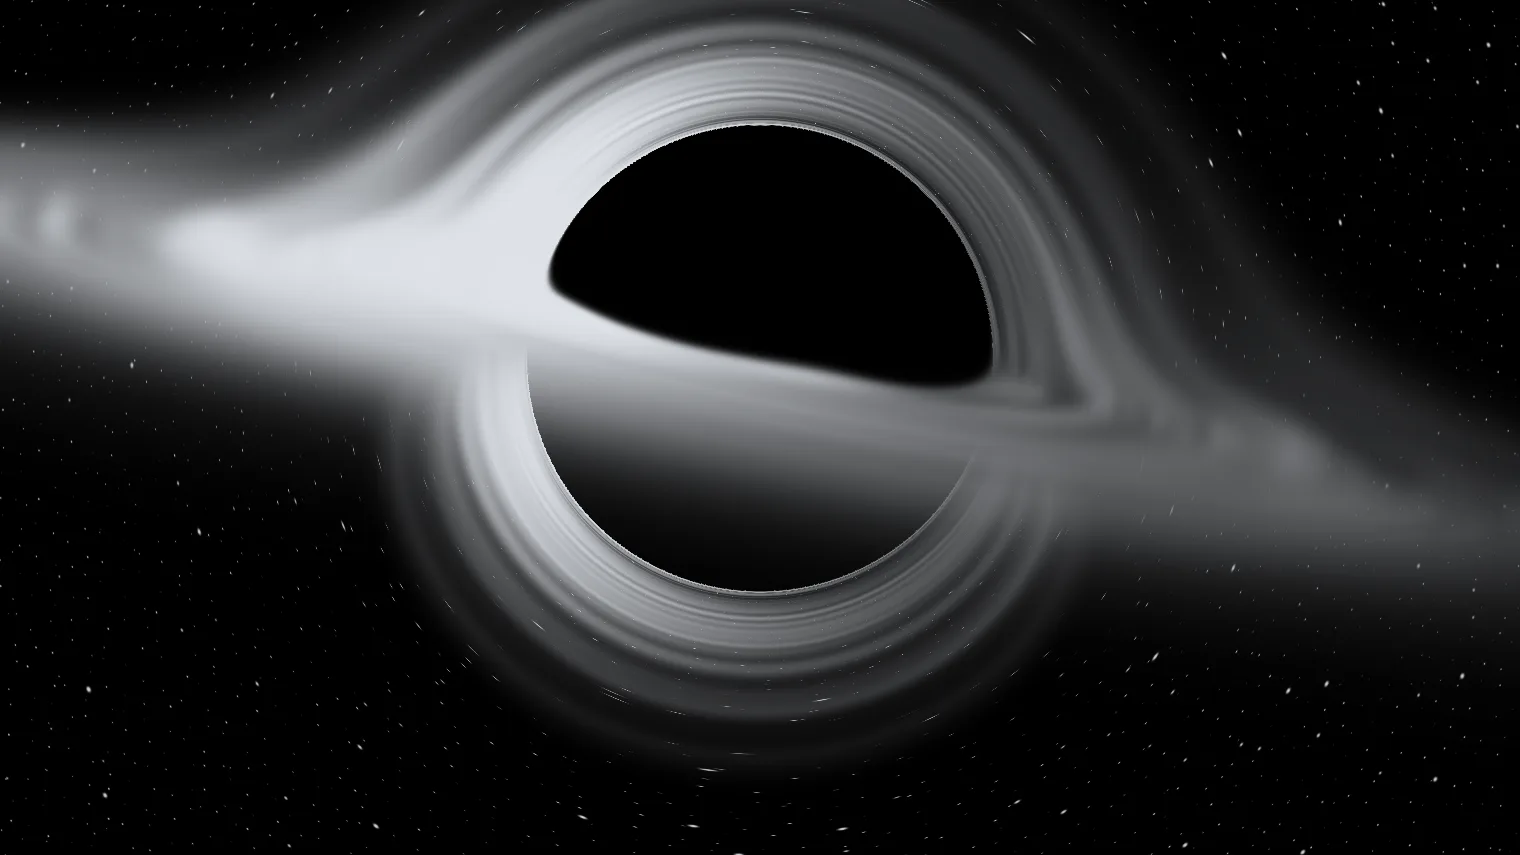
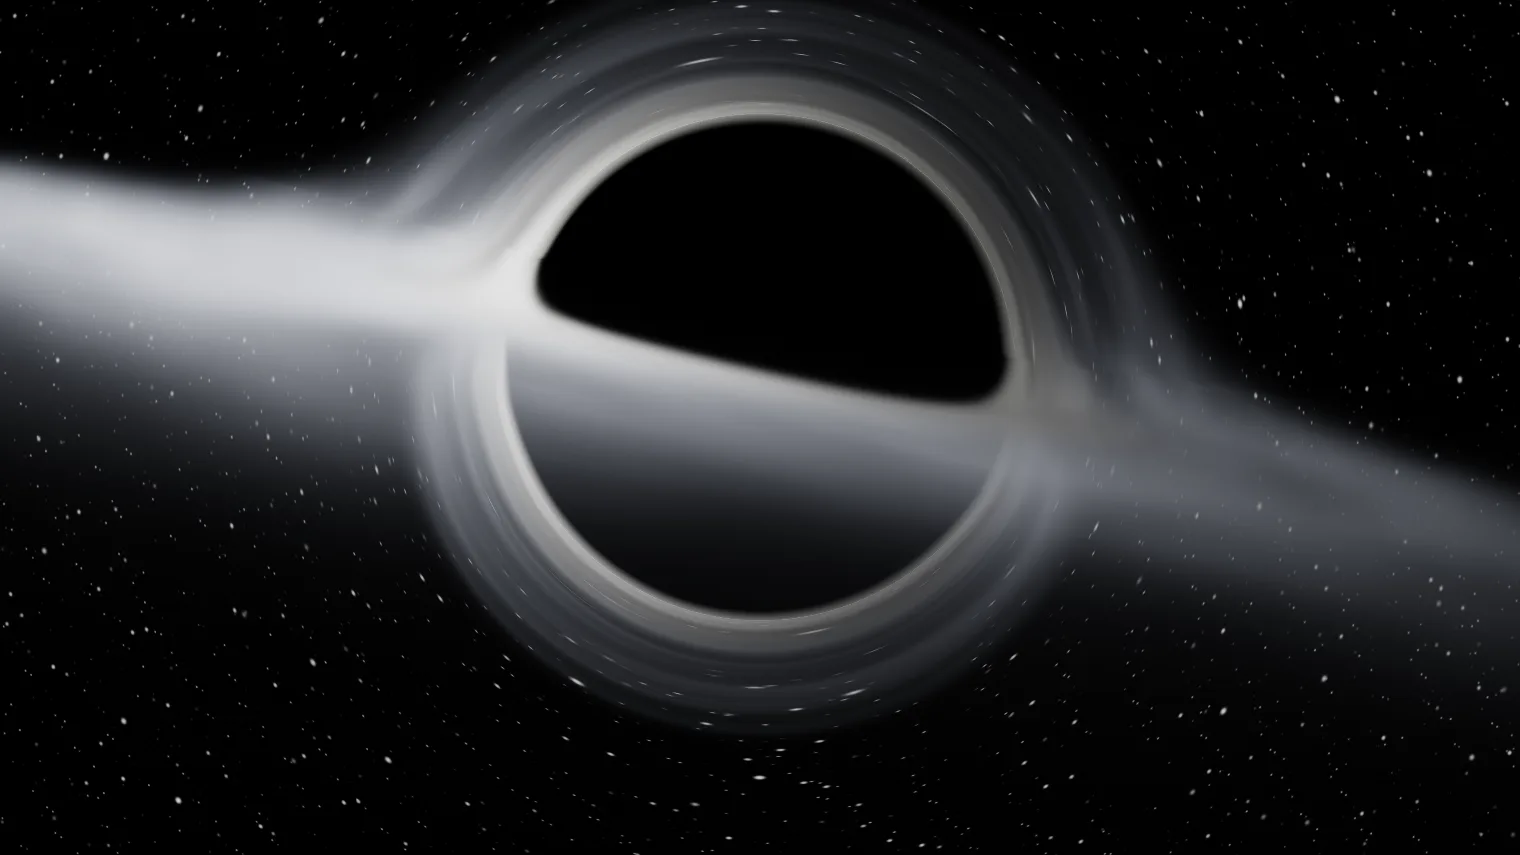
Site: a bigger, softer black hole
The camera sits closer (19 out), so the shadow is bigger. The disk is a
soft, cloudy slab, lit more evenly, with a faint haze, a tight photon
ring and a filmic tone curve. There are more stars, and the camera
sways, rolls and leans toward the cursor. The cursor lens stays.
New still posters to match.

Changed region(s): [[0.0, 0.0, 1.0, 0.8211], [0.4329, 0.8211, 0.5566, 0.8515], [0.2783, 0.6386, 0.3092, 0.7298]]

diff --git a/site/black-hole.js b/site/black-hole.js
@@ -1,61 +1,56 @@
 // The black hole behind the hero, ray traced live. Every pixel's light is bent around the hole (Schwarzschild), so the
 // shadow, the far side of the disk lensed up over the top and down under the bottom, and the brighter side that comes
-// toward you all fall out of the physics. The disk is a thin glowing slab, hot and bright inside, cold and smoky at its
-// rim; its gas streams round in fine lanes, inner ones faster. The camera drifts slowly round and eases toward the
-// cursor. No WebGL: the poster stays.
+// toward you all fall out of the physics. The disk is a thin glowing slab of soft, streaming gas, warm white inside
+// and cooler outside, with a faint haze round it. The camera drifts and leans toward the cursor, and the cursor bends
+// the picture under it. No WebGL: the poster stays.
 (() => {
   const cv = document.getElementById("hole");
   if (!cv) return;
   const gl = cv.getContext("webgl", { antialias: false, alpha: false, depth: false, powerPreference: "high-performance" });
   if (!gl) { cv.parentNode.classList.add("still"); return; }
-  const D = 26;   // the camera's distance, in Schwarzschild radii
   const FS = `
     precision highp float;
-    uniform vec2 uC; uniform float uK, uP, uN, uT; uniform vec3 uCam; uniform vec4 uM;
-    const float D = ${D}., RIN = 1.6, ROUT = 14.5, BC = 2.598;
+    uniform vec2 uC; uniform float uK, uT; uniform vec3 uCam; uniform vec4 uM;
+    float sq(float x){ return x * x; }
+    float hash(vec2 p){ return fract(sin(dot(p, vec2(127.1, 311.7))) * 43758.5453); }
     float hash3(vec3 p){ p = fract(p * .3183099 + .1); p *= 17.; return fract(p.x * p.y * p.z * (p.x + p.y + p.z)); }
     float noise3(vec3 x){ vec3 i = floor(x), f = fract(x); f = f * f * (3. - 2. * f);
       return mix(mix(mix(hash3(i), hash3(i + vec3(1,0,0)), f.x), mix(hash3(i + vec3(0,1,0)), hash3(i + vec3(1,1,0)), f.x), f.y),
                  mix(mix(hash3(i + vec3(0,0,1)), hash3(i + vec3(1,0,1)), f.x), mix(hash3(i + vec3(0,1,1)), hash3(i + vec3(1,1,1)), f.x), f.y), f.z); }
     float erf1(float x){ float t = x * x; return sign(x) * sqrt(1. - exp(-t * (1.2732 + .147 * t) / (1. + .147 * t))); }
-    // the stars: a jittered grid on the six faces of a cube round the camera, at most one star a cell, each drawn round
-    // on the sky and never smaller than a pixel. The grid is sized to the screen (uN), so any screen gets the same field
+    // how much gas at each radius: none inside 2, full by 2.75, thinning outward and gone by 17
+    float dens(float r){ return smoothstep(2., 2.75, r) * smoothstep(17., 5., r) * pow(2.8 / r, 1.5); }
+    // the gas: lumpy clouds in a frame that turns with the orbit (inner gas faster). Left alone the shear would wind
+    // the clouds into thin rings, so two copies half a cycle apart take turns, each fading out before it winds up
+    float clouds(vec3 s){ return .55 * noise3(s) + .3 * noise3(s * 2.1 + 3.7) + .15 * noise3(s * 4.3 + 11.); }
+    float gas(vec2 xz, float r){
+      float spin = 1.6 / pow(r, 1.5) + .1, a = atan(xz.y, xz.x), P = 9.;
+      float f = fract(uT / P), g = fract(uT / P + .5), a1 = a + f * P * spin, a2 = a + g * P * spin;
+      float k = abs(2. * f - 1.);   // 1 when copy one restarts: then it's all copy two
+      float n = mix(clouds(vec3(cos(a1) * r * .4, sin(a1) * r * .4, r * .7)), clouds(vec3(cos(a2) * r * .4, sin(a2) * r * .4, r * .7) + 19.), k);
+      n = (n - .5) / sqrt(k * k + (1. - k) * (1. - k)) + .5;   // a blend of two is flatter than either: undo that
+      return .25 + 1.6 * n * n;
+    }
+    // the stars: round dots a pixel or two across, scattered on the six faces of a cube round the sky, three sizes
     float stars(vec3 d){
       vec3 a = abs(d);
-      float m = max(a.x, max(a.y, a.z)), c = 0.;
-      bool fx = a.x == m, fy = !fx && a.y == m;
-      vec2 uv = (fx ? d.yz : fy ? d.xz : d.xy) / m;
-      float face = fx ? step(0., d.x) : fy ? 2. + step(0., d.y) : 4. + step(0., d.z);
-      for (int L = 0; L < 2; L++) {
-        float N = L == 0 ? uN : uN * .45;
-        vec2 id = floor((uv * .5 + .5) * N);
-        vec3 k = vec3(id, face * 7.31 + float(L) * 31.7);
-        if (hash3(k) < (L == 0 ? .95 : .7)) {
-          vec2 su = (id + .2 + .6 * vec2(hash3(k + 3.1), hash3(k + 5.7))) / N * 2. - 1.;
-          vec3 s = normalize(fx ? vec3(sign(d.x), su) : fy ? vec3(su.x, sign(d.y), su.y) : vec3(su, sign(d.z)));
-          float b = hash3(k + 9.2), r = length(d - s);
-          float sz = L == 0 ? .45 + .35 * b : .65 + 1.1 * b * b, R = max(uK * .6, uP * sz);
-          c += (L == 0 ? .35 + 1.3 * b * b : .6 + 2.4 * b * b * b) * exp(-r * r / (R * R)) * min(1., uP * uP * sz * sz / (R * R));
+      vec2 f; float face;
+      if (a.x > a.y && a.x > a.z) { f = d.yz / a.x; face = d.x > 0. ? 0. : 1.; }
+      else if (a.y > a.z) { f = d.xz / a.y; face = d.y > 0. ? 2. : 3.; }
+      else { f = d.xy / a.z; face = d.z > 0. ? 4. : 5.; }
+      float c = 0.;
+      for (int L = 0; L < 3; L++) {
+        float l = float(L), n = 125. / pow(2.4, l);
+        vec2 g = f * n, id = floor(g) + face * 517. + l * 91.;
+        float h = hash(id);
+        if (h < .24 - .05 * l) {
+          vec2 at = floor(g) + .5 + .3 * (vec2(hash(id + 2.3), hash(id + 5.9)) * 2. - 1.);
+          float r = length(g - at) / n * .8, R = uK * (.8 + .5 * l);
+          float tw = .78 + .22 * sin(uT * (1.2 + 2. * hash(id + 8.1)) + 40. * h);
+          c += (.2 + .8 * pow(hash(id + 3.7), 3.)) * (.5 + .45 * l) * tw * exp(-sq(r / R));
         }
       }
       return c;
-    }
-    // the gas: lanes along the orbit, spaced by log radius. The finer ones fade out where a pixel spans them (blur),
-    // so the disk seen edge on is a smooth band and seen through the lens a fan of fine rings
-    float lanes(float lr, float a, float blur){
-      vec2 cs = vec2(cos(a), sin(a));
-      float s = (noise3(vec3(lr * 7., cs * 1.3)) - .5) * .9;
-      s += (noise3(vec3(lr * 24., cs * 1.7 + 3.)) - .5) * .8 * smoothstep(.05, .018, blur);
-      s += (noise3(vec3(lr * 70., cs * 2.3 + 7.)) - .5) * .6 * smoothstep(.016, .006, blur);
-      return s;
-    }
-    // two copies of the lanes, each sheared by the orbit for one period and faded out as the other fades in, so the
-    // gas streams for ever without winding up into noise
-    float gas(float pr, float a, float blur){
-      float w = .7071 * pow(pr, -1.5) * 1.6, P = 10.;
-      float p1 = fract(uT / P), p2 = fract(uT / P + .5), k = 1. - abs(2. * p1 - 1.), lr = log(pr);
-      float s = mix(lanes(lr, a - w * (p2 - .5) * P + 2.1, blur), lanes(lr, a - w * (p1 - .5) * P, blur), k);
-      return clamp(.55 + s / sqrt(k * k + (1. - k) * (1. - k)), 0., 1.);   // two blended copies lose contrast: give it back
     }
     void main(){
       // the cursor is a small second mass: the picture under it bends (uM: where, in pixels; how much, 0..1; frame height)
@@ -64,59 +59,56 @@
       fc -= dm * uM.w * uM.z * .0042 / (m2 + .0064) * exp(-m2 / .08);
       vec2 q = (fc - uC) * uK;
       float cr = cos(uCam.z), sr = sin(uCam.z);
-      q = vec2(cr * q.x - sr * q.y, sr * q.x + cr * q.y);
-      float ca = cos(uCam.x), sa = sin(uCam.x), ce = cos(uCam.y), se = sin(uCam.y);
-      vec3 pos = D * vec3(ce * sa, se, -ce * ca), fw = -pos / D, rt = vec3(ca, 0., sa), up = cross(fw, rt);
-      vec3 v0 = normalize(fw + q.x * rt + q.y * up), vel = v0, am = cross(pos, vel);
-      float h2 = dot(am, am), col = 0., T = 1., trav = 0.;
+      q = vec2(cr * q.x + sr * q.y, cr * q.y - sr * q.x);
+      // the camera: 19 out, a little above the disk, swung round by the yaw
+      float cy = cos(uCam.x), sy = sin(uCam.x);
+      vec3 ro = vec3(-19. * sy, uCam.y, -19. * cy), fw = normalize(-ro), rt = normalize(cross(vec3(0., 1., 0.), fw)), up = cross(fw, rt);
+      vec3 v0 = normalize(fw + q.x * rt + q.y * up), v = v0, p = ro, am = cross(p, v);
+      float h2 = dot(am, am), T = 1.;
+      vec3 col = vec3(0.);
       bool fell = false;
-      for (int i = 0; i < 240; i++) {
-        float r2 = dot(pos, pos), r = sqrt(r2);
+      for (int i = 0; i < 260; i++) {
+        float r = length(p);
         if (r < 1.) { fell = true; break; }
-        float dt = .08 * r2 / (r + 2.);
-        vec3 p0 = pos;
-        vel -= 1.5 * h2 * pos / (r2 * r2 * r) * dt;
-        pos += vel * dt;
-        float L = length(pos - p0), y0 = p0.y, y1 = pos.y, rc = length(p0.xz + pos.xz) * .5;
-        trav += L;
-        // the disk: a slab, Gaussian in height, that glows and absorbs. Each step takes the gas it passes through
-        // exactly for the straight step (erf), looked up where the step comes nearest the middle of the slab
-        if (rc > RIN - .3 && rc < ROUT + 1.) {
-          float hb = .05 + .022 * rc;
-          if (y0 * y1 < 0. || min(abs(y0), abs(y1)) < 3. * hb) {
-            float s = y0 * y1 < 0. ? y0 / (y0 - y1) : step(abs(y1), abs(y0));
-            vec3 pc = mix(p0, pos, s), d = (pos - p0) / L;
-            float pr = length(pc.xz), a = atan(pc.z, pc.x), vy = max(abs(d.y), .02);
-            float blur = (uK * trav / vy + min(L, 2. * hb / vy) * abs(dot(d.xz, pc.xz)) / pr) / pr;
-            float tx = gas(pr, a, blur);
-            float hh = hb * (.7 + .6 * tx);   // the slab puffs up with the gas: its edge is wispy
-            float dy = (y1 - y0) / hh;
-            float cd = (abs(dy) > .02 ? .8862 * (erf1(y1 / hh) - erf1(y0 / hh)) / dy : exp(-pow(.5 * (y0 + y1) / hh, 2.))) * L / hh;
-            // thick inside, thinning outward: seen edge on, the outer gas still glows; seen through the lens, it fades
-            float den = smoothstep(RIN, RIN + .35, pr) * smoothstep(ROUT, ROUT - 2., pr) * pow(2. / pr, 1.9) * (.3 + .9 * tx);
-            float tau = cd * den;
-            float b = sqrt(.5 / pr), dop = sqrt(1. - b * b) / (1. - b * dot(vec3(-pc.z, 0., pc.x) / pr, -d));   // gas coming toward you is brighter
-            float S = 3.3 * pow(2. / pr, .85) * smoothstep(15.5, 8., pr) * (.45 + .9 * tx * tx) * pow(dop, 3.);
-            float dT = exp(-tau);
-            col += T * S * (1. - dT);
-            T *= dT;
-            if (T < .02) break;
+        if ((r > 17.5 && dot(p, v) > 0.) || T < .01) break;   // past the disk and leaving: nothing more to gather
+        float rho = length(p.xz), hh = .05 + .022 * rho;
+        bool near = abs(p.y) < 3.5 * hh + .4 && rho > 1.8 && rho < 16.;
+        float dt = clamp(.09 * r * min(1., r / 3.), .02, 1.2);
+        if (near) dt = min(dt, .3);
+        vec3 pn = p + v * dt;
+        v = normalize(v - 1.5 * h2 * p / pow(r, 5.) * dt);
+        if (near || p.y * pn.y < 0.) {
+          // the slab is Gaussian in height: take its mean over the step exactly (erf), so a coarse step stays smooth
+          float y0 = p.y / hh, y1 = pn.y / hh;
+          float w = abs(y1 - y0) > 1e-3 ? .8862269 * (erf1(y1) - erf1(y0)) / (y1 - y0) : exp(-y0 * y0);
+          if (w > .003) {
+            vec3 c = p.y * pn.y < 0. ? mix(p, pn, p.y / (p.y - pn.y)) : (abs(p.y) < abs(pn.y) ? p : pn);
+            float rc = length(c.xz), pr = dens(rc);
+            if (pr > .0005) {
+              float d = w * pr * gas(c.xz, rc);
+              float beam = sq(clamp(1. + .4 * dot(normalize(vec3(-c.z, 0., c.x)), -v), .4, 2.));   // gas coming toward you is brighter
+              vec3 tint = mix(vec3(.8, .83, .9), vec3(1., .99, .97), smoothstep(6., 2.6, rc));
+              col += T * d * beam * dt * 1.7 * tint;
+              T *= exp(-d * dt * 2.4);
+            }
           }
+          col += T * exp(-sq(p.y / (hh * 3.))) * dens(rho) * dt * .009 * vec3(.85, .88, .95);   // a faint haze, like bloom
         }
-        if (r > D + 6. && dot(pos, vel) > 0.) break;
+        p = pn;
       }
-      // the photon ring: light that circles the hole before it gets out, piled up in a thin line at the shadow's edge
-      float bi = sqrt(h2), pw = uK * D, ql = length(q) + 1e-6;
-      col += T * exp(-pow((bi - BC * 1.004) / (1.4 * pw), 2.)) * (.75 - .45 * q.x / ql);
-      // the stars, bent only part way: round far out, drawn into short arcs near the ring
       if (!fell) {
-        vec3 vf = normalize(vel);
-        float cdv = clamp(dot(v0, vf), -1., 1.), dl = acos(cdv) * .2;
-        vec3 w = vf - v0 * cdv;
-        float wl = length(w);
-        col += T * stars(wl > 1e-5 ? v0 * cos(dl) + w / wl * sin(dl) : v0);
+        // the photon ring: rays aimed just outside the critical impact parameter (3√3/2) circle the hole before they
+        // escape. A crisp line there and a soft glow outside it, breathing slowly
+        vec3 foot = ro - dot(ro, v0) * v0;
+        float b = length(foot), x = b - 2.598;
+        float ring = exp(-sq((x - .012) * 34.)) + .07 * exp(-x * 2.2);
+        col += T * ring * (1. + .08 * sin(uT * .6)) * vec3(.94, .96, 1.);
+        // the stars, bent part way by a closed form of the straight ray: round, never smeared into scratches
+        float bend = .3 * (2. / b + 2.95 / (b * b));
+        col += T * stars(v0 * cos(bend) - foot / b * sin(bend)) * smoothstep(2.8, 4.5, b);
       }
-      gl_FragColor = vec4((1. - exp(-col)) * vec3(.87, .885, .91), 1.);   // a cool silver, never quite white
+      col = clamp(col * (2.51 * col + .03) / (col * (2.43 * col + .59) + .14), 0., 1.);   // filmic: deep blacks, soft whites
+      gl_FragColor = vec4(col + (hash(gl_FragCoord.xy) - .5) / 255., 1.);
     }`;
   const VS = "attribute vec2 p; void main(){ gl_Position = vec4(p, 0., 1.); }";
   const sh = (t, src) => { const o = gl.createShader(t); gl.shaderSource(o, src); gl.compileShader(o); if (!gl.getShaderParameter(o, gl.COMPILE_STATUS)) throw gl.getShaderInfoLog(o); return o; };
@@ -124,12 +116,11 @@
   gl.attachShader(pr, sh(gl.VERTEX_SHADER, VS)); gl.attachShader(pr, sh(gl.FRAGMENT_SHADER, FS)); gl.linkProgram(pr); gl.useProgram(pr);
   gl.bindBuffer(gl.ARRAY_BUFFER, gl.createBuffer()); gl.bufferData(gl.ARRAY_BUFFER, new Float32Array([-1, -1, 3, -1, -1, 3]), gl.STATIC_DRAW);
   const loc = gl.getAttribLocation(pr, "p"); gl.enableVertexAttribArray(loc); gl.vertexAttribPointer(loc, 2, gl.FLOAT, false, 0, 0);
-  const U = (n) => gl.getUniformLocation(pr, n), uC = U("uC"), uK = U("uK"), uP = U("uP"), uN = U("uN"), uT = U("uT"), uCam = U("uCam"), uM = U("uM");
+  const U = (n) => gl.getUniformLocation(pr, n), uC = U("uC"), uK = U("uK"), uT = U("uT"), uCam = U("uCam"), uM = U("uM");
   const reduce = matchMedia("(prefers-reduced-motion: reduce)").matches;
-  const TS = Math.tan(Math.asin(3 * Math.sqrt(3) / 2 / D * Math.sqrt(1 - 1 / D)));   // the shadow's radius, as the tangent of its angle
 
   // the frame: at most 1.3 million pixels, and a slow GPU steps down from there. Wider than a phone, the hole's size
-  // follows the width and its middle sits 37% down below the 44px bar; on a phone it follows the height and sits higher
+  // follows the width (up to a cap) and its middle sits 38% down below the 44px bar; on a phone it sits higher
   let q = 1;
   function size() {
     const r = cv.getBoundingClientRect(), w = r.width || 1, h = r.height || 1;
@@ -137,15 +128,13 @@
     const W = Math.max(1, Math.round(w * s)), H = Math.max(1, Math.round(h * s));
     if (cv.width !== W || cv.height !== H) { cv.width = W; cv.height = H; }
     gl.viewport(0, 0, W, H);
-    const phone = w < 640, hw = phone ? .105 * h : .152 * w;
-    gl.uniform2f(uC, W / 2, H - (44 + (phone ? .255 : .37) * h) * s);
-    gl.uniform1f(uK, TS / (hw * s));
-    gl.uniform1f(uP, TS / hw);
-    gl.uniform1f(uN, hw / (11 * TS));   // star cells about 22px across
+    const phone = w < 640, zoom = phone ? .62 : Math.min(1.6, .9 * w / h);
+    gl.uniform2f(uC, W / 2, H - (44 + (phone ? .26 : .38) * h) * s);
+    gl.uniform1f(uK, 1 / (H * zoom));   // the view's slope per pixel
   }
-  // the camera eases toward the cursor: up lays the disk flat, nearly edge-on; down tips it toward you. Left and right
-  // roll it a little. With no cursor (a phone) it rests in the middle. Over the hole, the cursor also bends the picture
-  // under it like a small lens that trails a little behind and swells in and out
+  // the camera sways slowly and leans toward the cursor: left and right swing it round, down lifts it so the disk tips
+  // toward you. With no cursor (a phone) it rests in the middle. Over the hole, the cursor also bends the picture under
+  // it like a small lens that trails a little behind and swells in and out
   let tx = 0, ty = 0, mx = 0, my = 0, px = 0, py = 0, over = false, hx = .5, hy = .5, warp = 0;
   if (!reduce) {
     addEventListener("pointermove", (e) => {
@@ -154,7 +143,7 @@
     }, { passive: true });
     document.documentElement.addEventListener("pointerleave", () => { over = false; });
   }
-  const deg = Math.PI / 180, t0 = performance.now();
+  const t0 = performance.now();
   let on = true, last = 0, slow = 0;
   function draw(now) {
     const dt = last ? Math.min(.1, (now - last) / 1000) : 0, e = 1 - Math.exp(-dt * 3);
@@ -166,8 +155,8 @@
     warp += (+inside - warp) * (1 - Math.exp(-dt * 5));
     gl.uniform4f(uM, hx * cv.width, (1 - hy) * cv.height, warp, cv.height);
     const t = reduce ? 0 : (now - t0) / 1000;
-    gl.uniform1f(uT, t + 40);
-    gl.uniform3f(uCam, -.0025 * t, (5.5 + 4.5 * my) * deg, (11.5 - 2.2 * mx + 1.5 * my) * deg);
+    gl.uniform1f(uT, t);
+    gl.uniform3f(uCam, .16 * Math.sin(t * .05) + .16 * mx, 1.25 + .25 * Math.sin(t * .07) + .8 * my, -.21 + .03 * Math.sin(t * .09));
     gl.drawArrays(gl.TRIANGLES, 0, 3);
     // a slow GPU draws fewer pixels rather than a choppy hole
     if (last) { const ms = now - last; slow = ms > 22 && ms < 250 ? slow + 1 : Math.max(0, slow - 1); if (slow > 40 && q > .36) { q *= .7071; slow = 0; size(); } }
